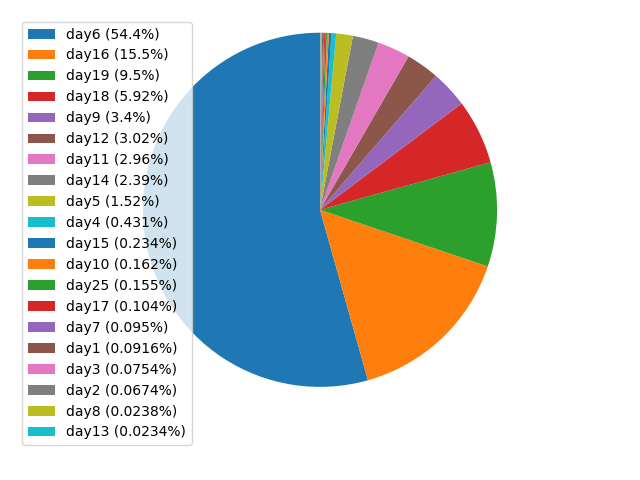
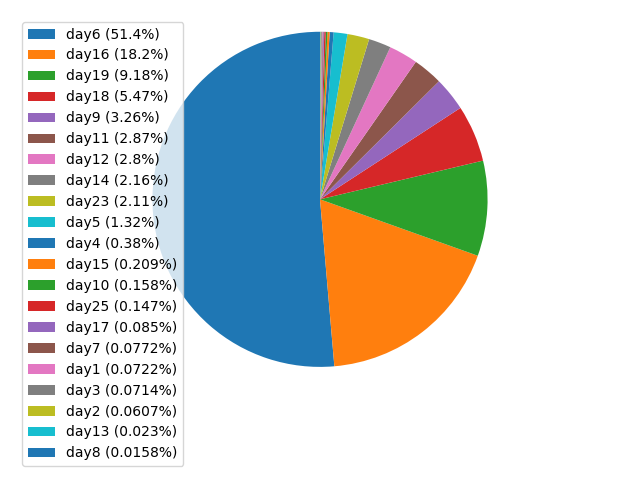
day 23

diff --git a/aoc/days/day23.py b/aoc/days/day23.py
@@ -1,0 +1,72 @@
+from pathlib import Path
+from collections import defaultdict
+from aoc.util import read, file, bench, env
+
+CURR_DAY: int = 23
+INPUT_FILE_PATH: Path = file.input_path(CURR_DAY)
+TEST_FILE_PATH: Path = file.test_path(CURR_DAY)
+ONLY_TESTS: bool = env.is_set("TEST")
+
+
+def task2(input: list[str]) -> str:
+    connec: defaultdict[str, list] = defaultdict(list)
+    groups: list[set[str]] = []
+
+    for line in input:
+        left, right = line.split("-", 1)
+        connec[left].append(right)
+        connec[right].append(left)
+
+        found: bool = False
+        for g in groups:
+            invalid: bool = False
+            for com in g:
+                if com == left or com == right:
+                    continue
+                if com not in connec[left] or com not in connec[right]:
+                    invalid = True
+                    break
+            if not invalid:
+                g.add(left)
+                g.add(right)
+                found = True
+                break
+        if not found:
+            groups.append({left, right})
+
+    biggest: set[str] = max(groups, key=len)
+    return ",".join(sorted(biggest))
+
+
+def task1(input: list[str]) -> int:
+    connec: defaultdict[str, list] = defaultdict(list)
+    groups: list[set[str]] = []
+
+    for line in input:
+        left, right = line.split("-", 1)
+        connec[left].append(right)
+        connec[right].append(left)
+        for com in connec[left]:
+            if com == right:
+                continue
+            if com in connec[right]:
+                groups.append({com, left, right})
+
+    return sum(any(com.startswith("t") for com in s) for s in groups)
+
+
+@bench.timer
+def day23() -> None:
+    test: list[str] = read.to_str_list(TEST_FILE_PATH)
+    input: list[str] = read.to_str_list(INPUT_FILE_PATH)
+
+    print("test1:", task1(test))
+    print("test2:", task2(test))
+
+    if not ONLY_TESTS:
+        print("task1:", task1(input))
+        print("task2:", task2(input))
+
+
+if __name__ == "__main__":
+    day23()

diff --git a/README.md b/README.md
@@ -1,7 +1,7 @@
 # Advent of Code 2024
 
-![](https://img.shields.io/badge/stars%20⭐-39-yellow)
-![](https://img.shields.io/badge/days%20completed-19-red)
+![](https://img.shields.io/badge/stars%20⭐-41-yellow)
+![](https://img.shields.io/badge/days%20completed-20-red)
 
 This Repository contains some solutions for advent of code 2024 as well as a CLI to make some things easier.  
 Feel free to use the solutions, as well as the rest of this repo for whatever you want.
